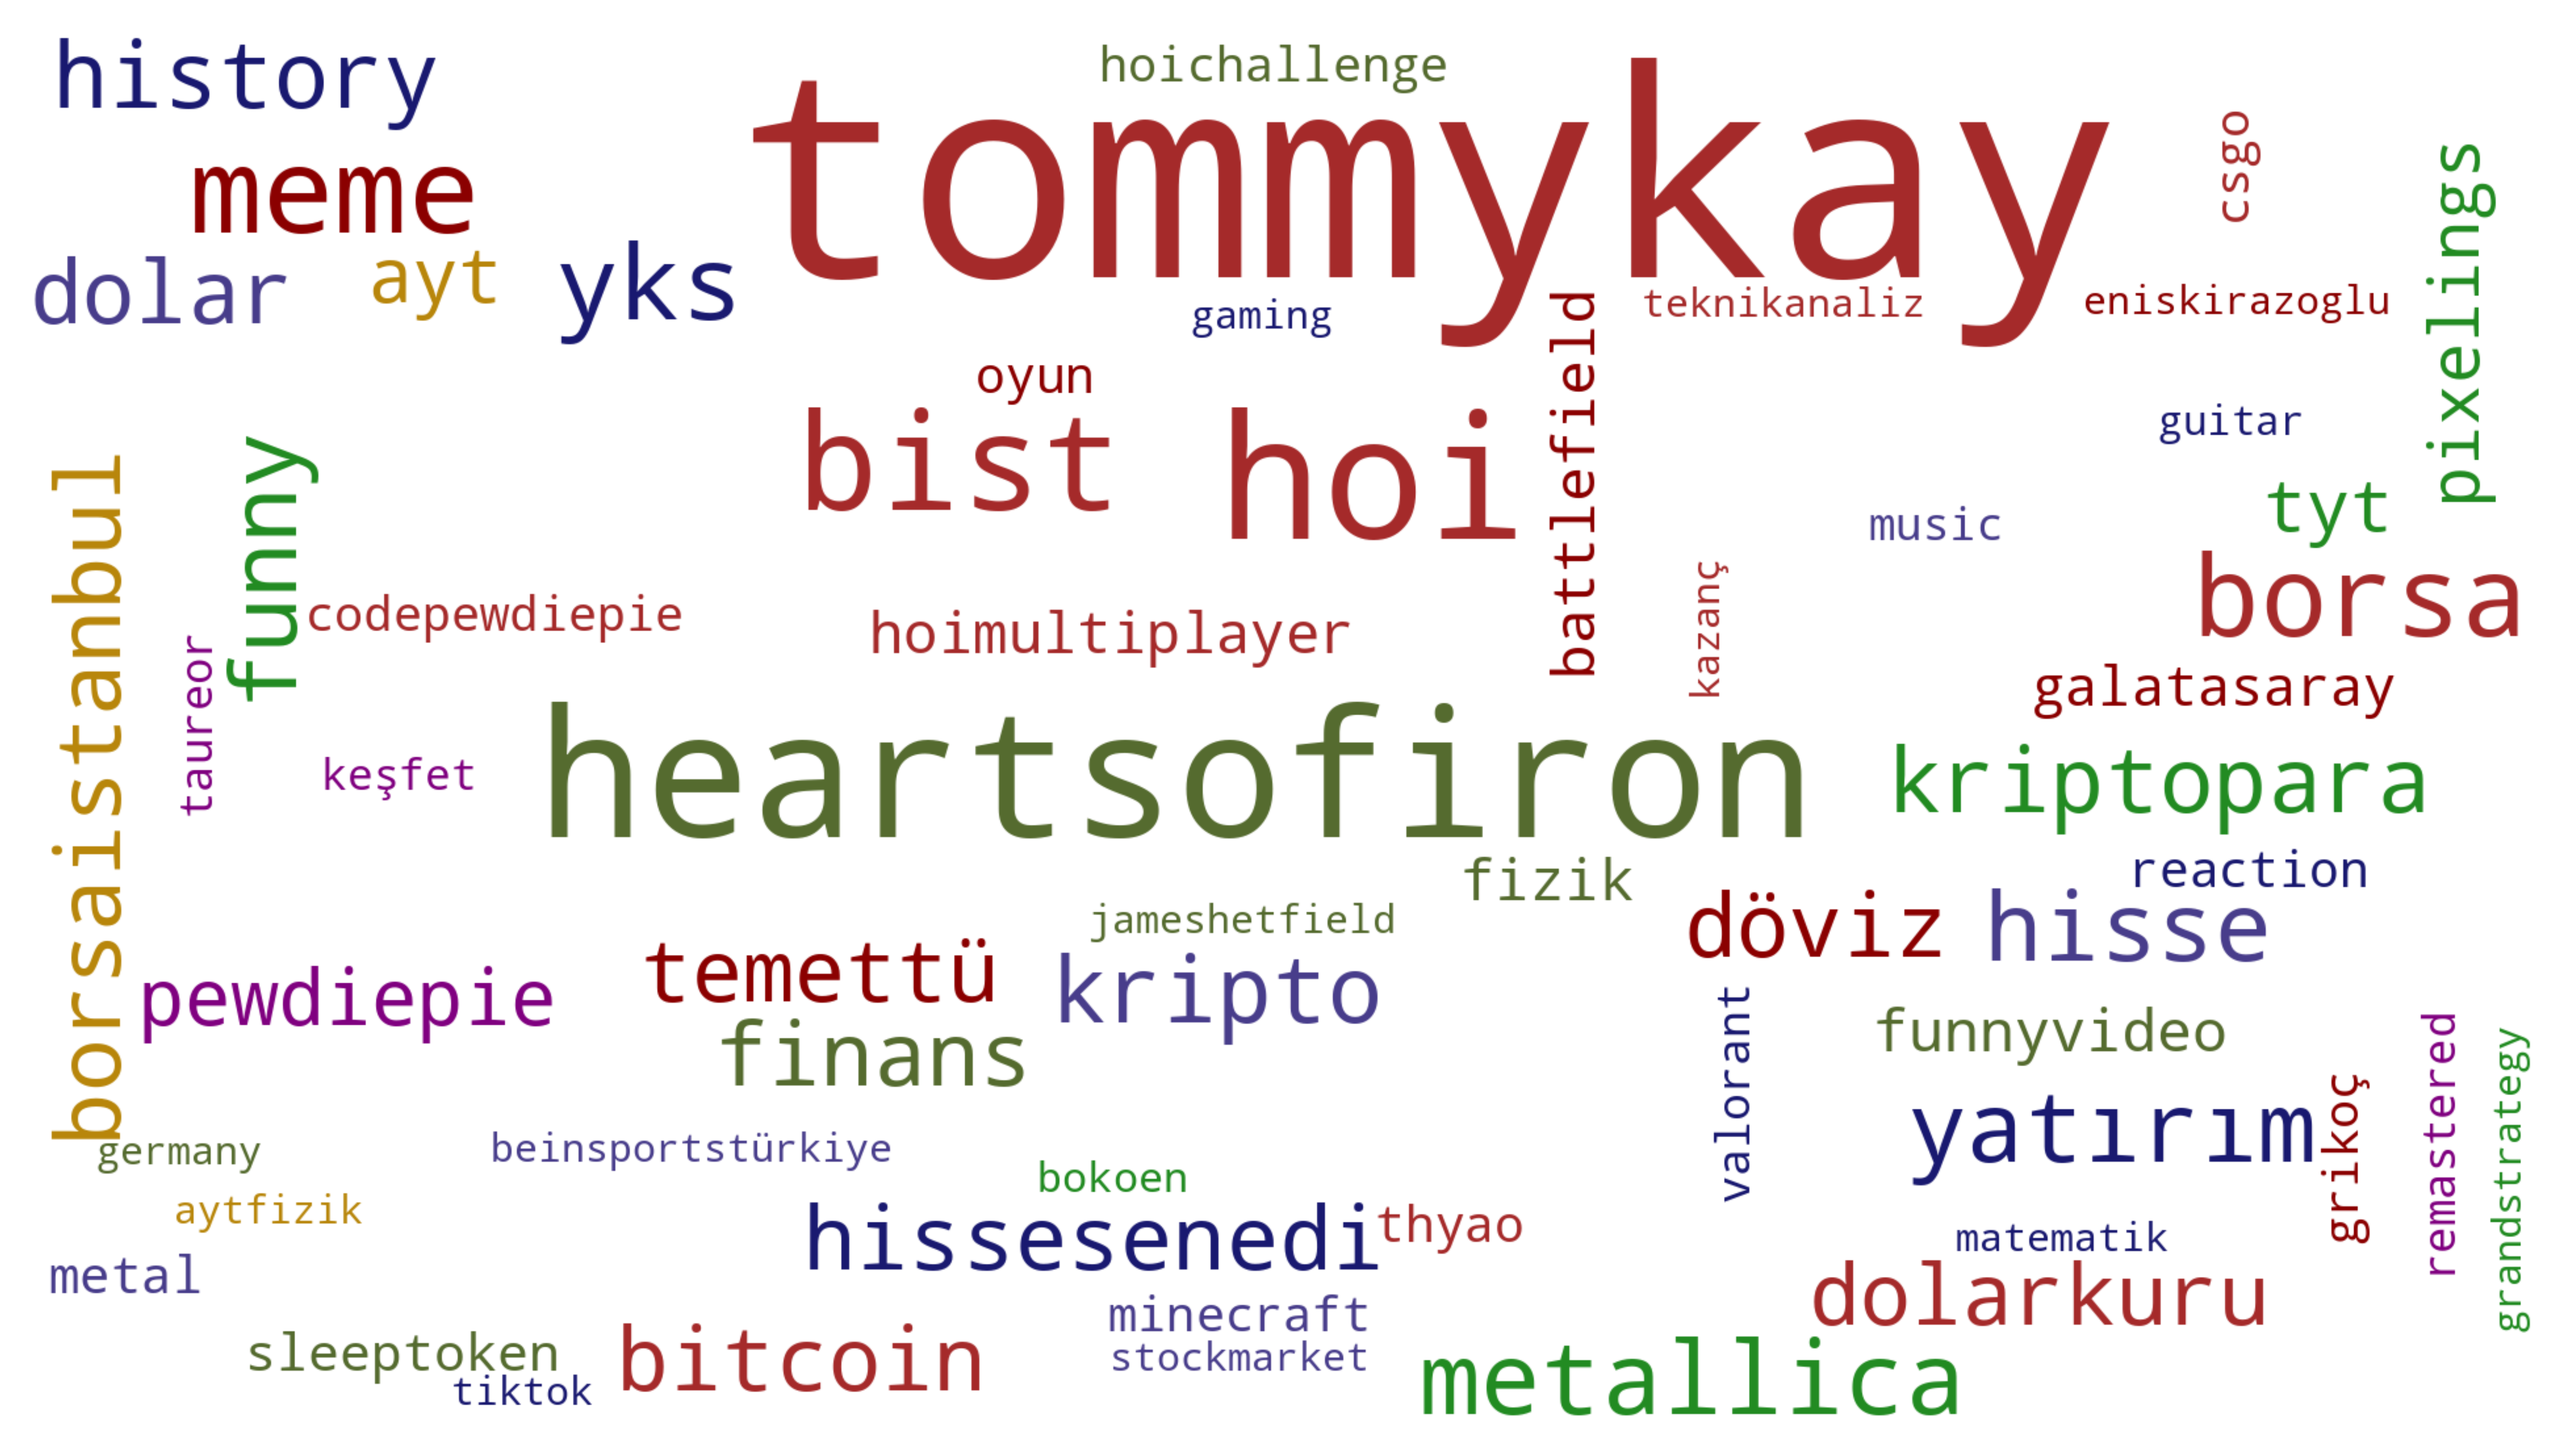
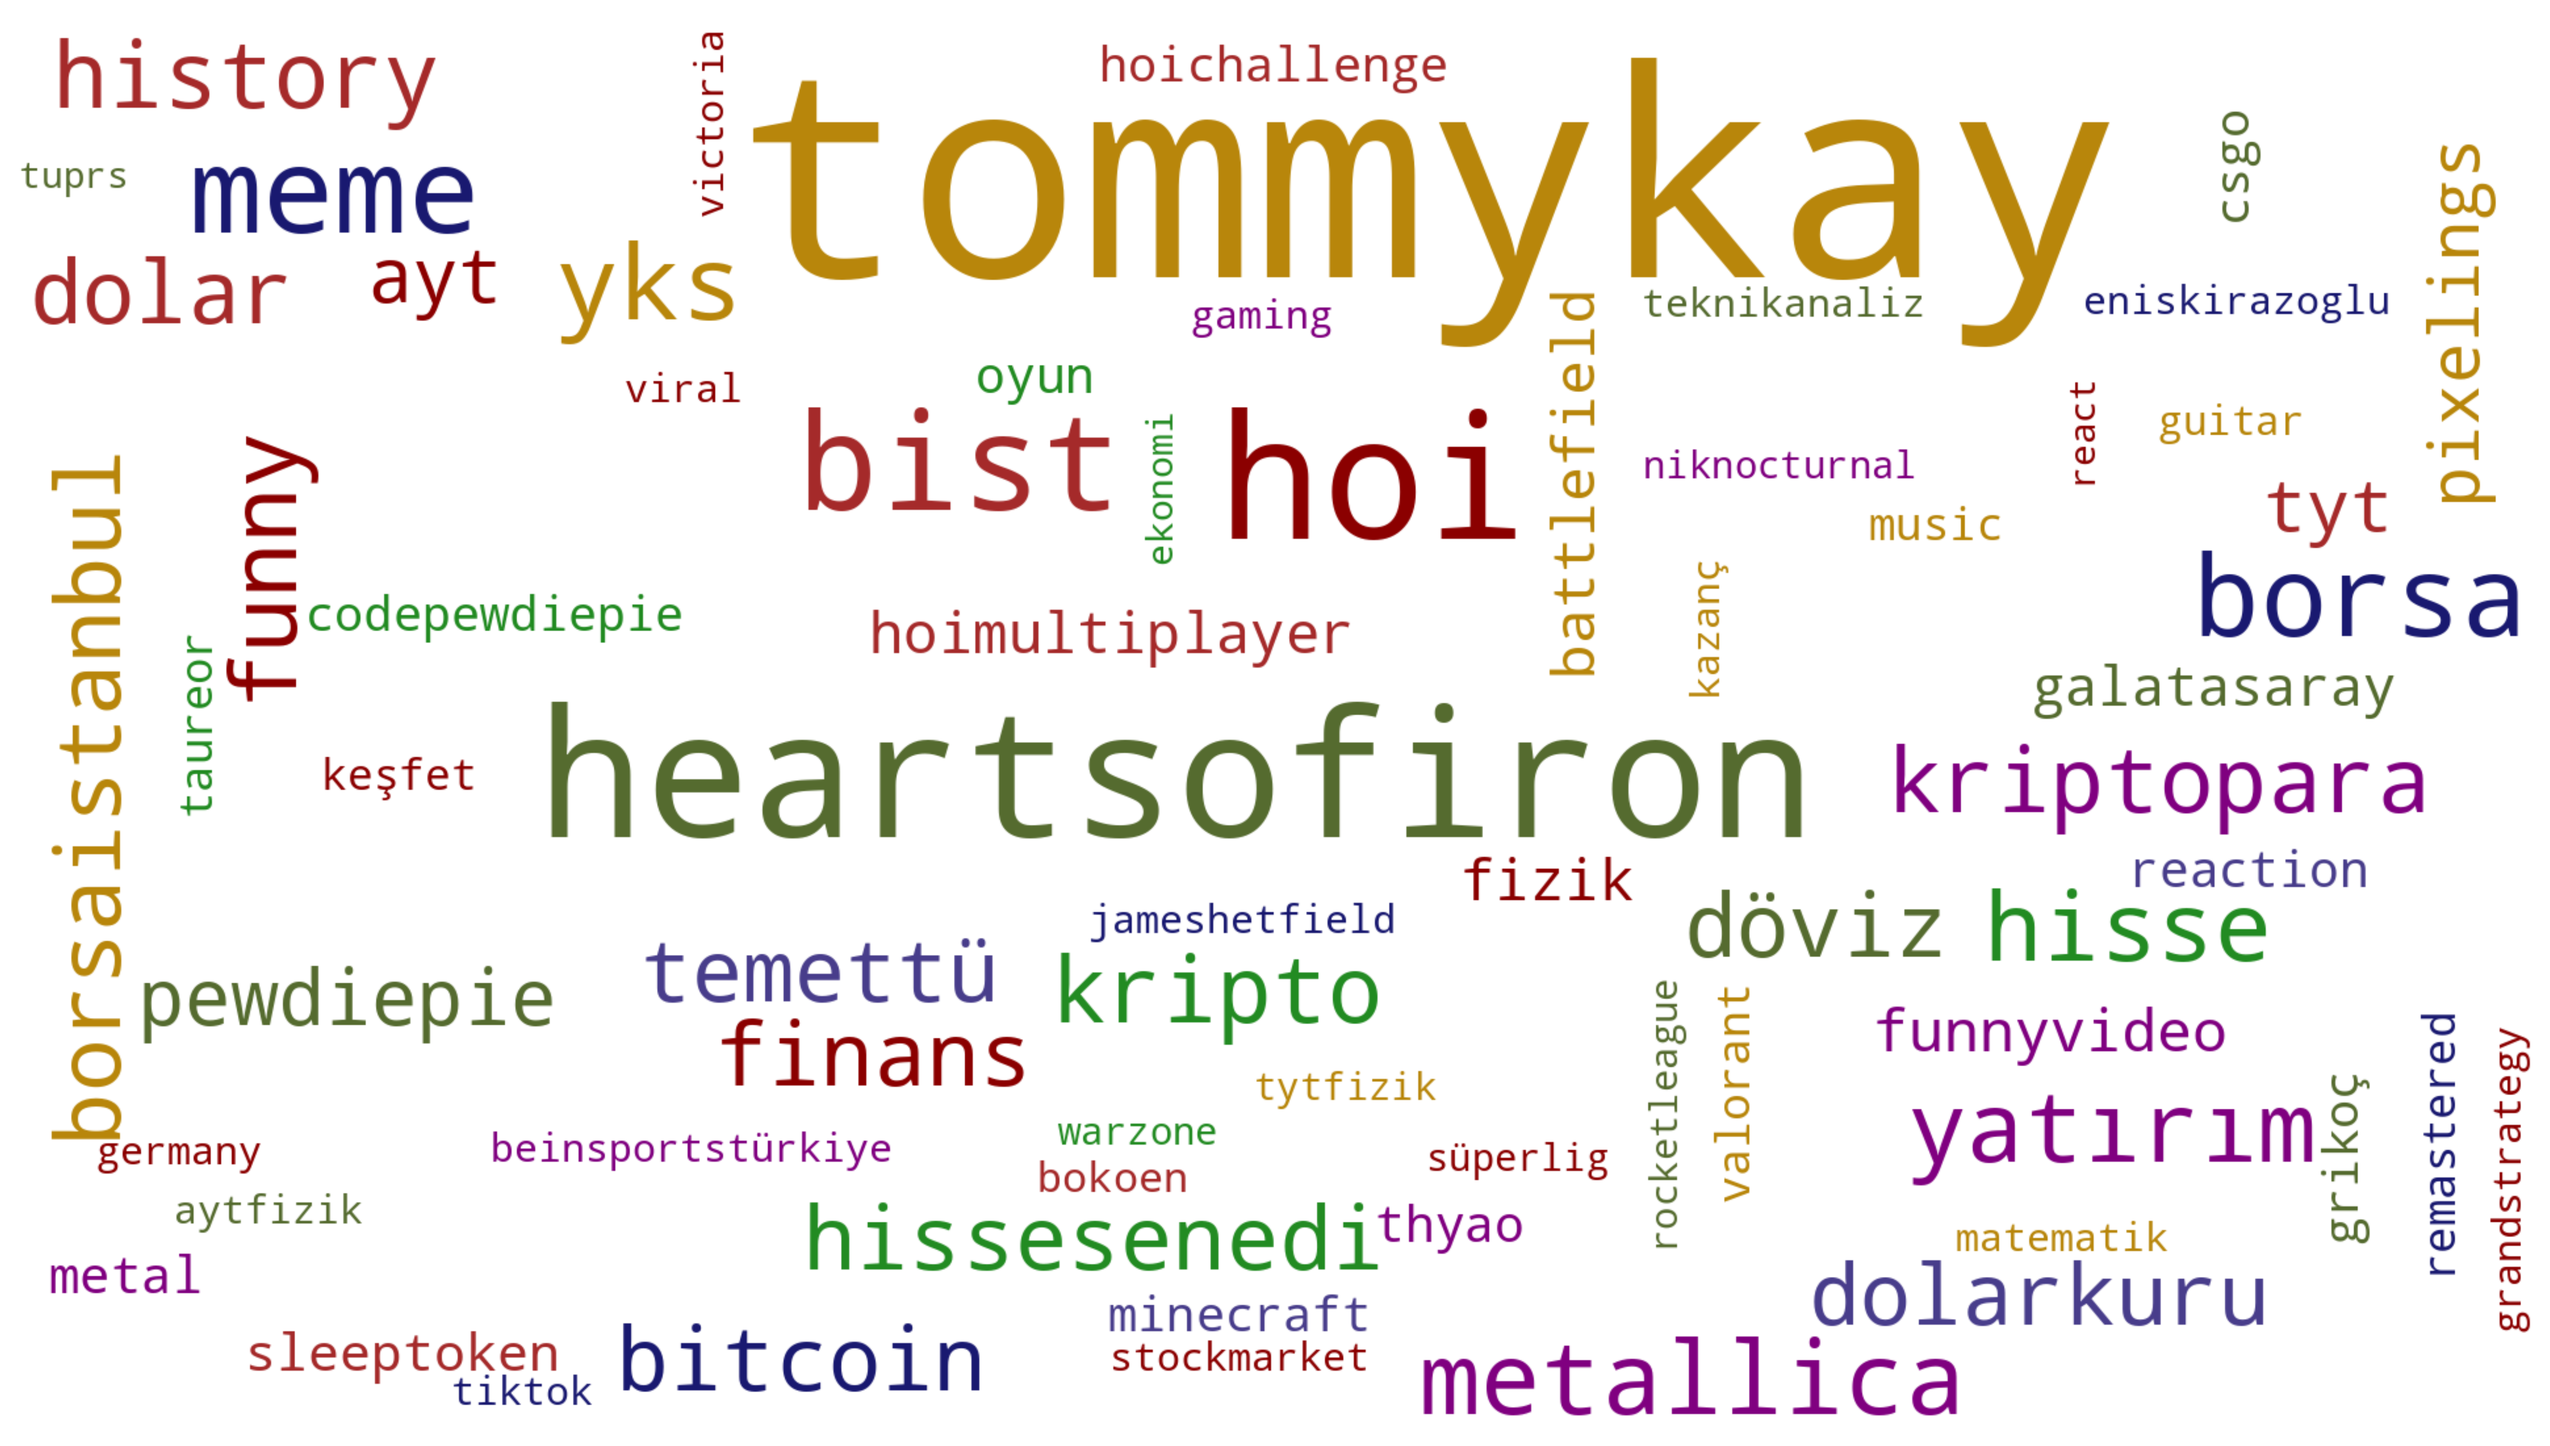
Fix word_cloud.py

diff --git a/word_cloud.py b/word_cloud.py
@@ -111,7 +111,7 @@ def generate_hashtag_wordcloud(csv_path, min_word_length=3, max_words=100):
         background_color='white',
         color_func=color_func,
         min_word_length=3,
-        max_words=60,              # Reduced number of words
+        max_words=70,              # Reduced number of words
         collocations=False,        # Disable collocations to prevent duplicates
         prefer_horizontal=0.75,
         relative_scaling=0.6,
